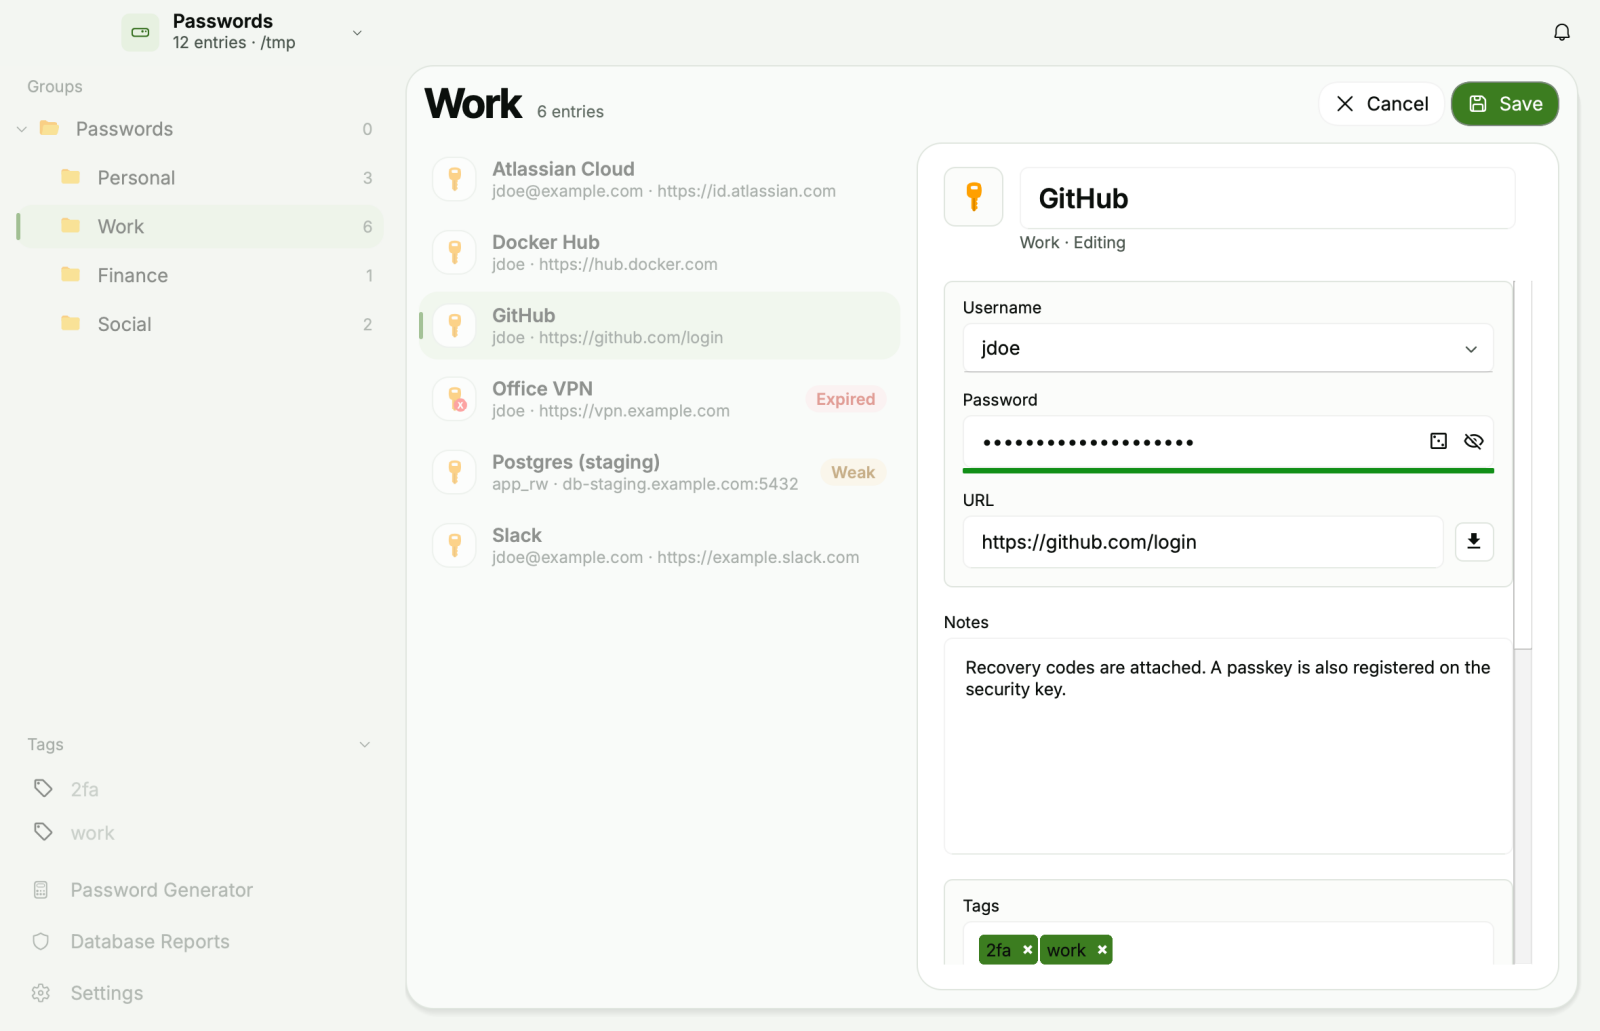
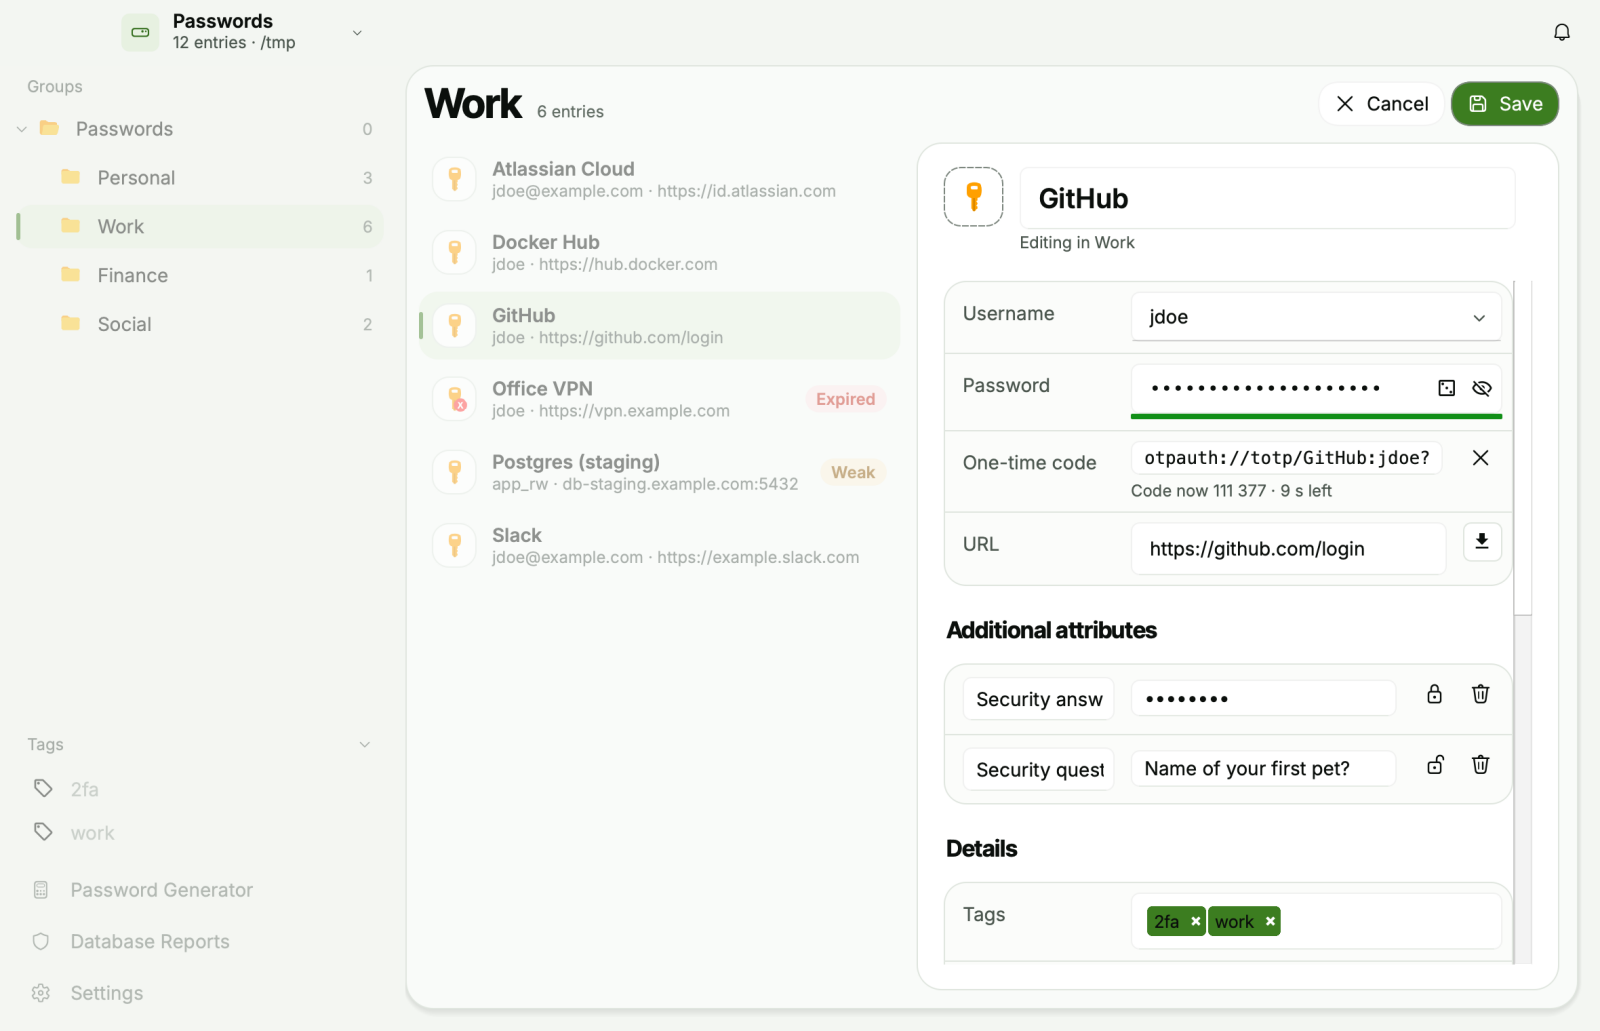
Download OpenVireo 1.1.0 and regenerate the guides from its tag

diff --git a/content/docs/user-guide/database-operations.html b/content/docs/user-guide/database-operations.html
@@ -187,14 +187,17 @@ By default, OpenVireo will show entries that are expired or will be expiring wit
 <div class="olist arabic">
 <ol class="arabic">
 <li>
-<p>Click <em>New Entry</em> in the command bar, navigate to Entries &gt; New Entry, or press <span class="keyseq"><kbd>Ctrl</kbd>+<kbd>N</kbd></span>. The entry opens in a window over the database:</p>
+<p>Click <em>New Entry</em> in the command bar, navigate to Entries &gt; New Entry, or press <span class="keyseq"><kbd>Ctrl</kbd>+<kbd>N</kbd></span>. The new entry opens in place of the entry details, so the groups and the entry list stay in view:</p>
 <figure class="guide-figure" data-lightbox>
 <a href="/docs/user-guide/images/edit_entry.png" data-caption="Adding a new entry"><img src="/docs/user-guide/images/edit_entry.png" alt="edit entry" width="1600" height="1031" loading="lazy"></a>
 <figcaption>Adding a new entry</figcaption>
 </figure>
 </li>
 <li>
-<p>Enter a desired title for the entry, username, password, URL, and notes on this screen.</p>
+<p><em>(Optional)</em> Pick what kind of entry it is: <em>Login</em>, <em>Secure note</em>, <em>Card</em>, <em>Wi-Fi</em>, <em>SSH key</em> or <em>API key</em>. The type only decides which fields the entry starts with. A card, for example, starts with Cardholder, Number, Expires and Security code attributes and no username or password. The entry stays an ordinary KeePass entry, and you can add or remove any field later.</p>
+</li>
+<li>
+<p>Enter a title, username, password and URL. Each field has its name on the left, and the name moves above the field when the window is narrow.</p>
 <div class="olist loweralpha">
 <ol class="loweralpha">
 <li>
@@ -204,7 +207,7 @@ By default, OpenVireo will show entries that are expired or will be expiring wit
 <p>You can generate a secure random password by clicking the dice icon in the password field to launch the password generator. Reveal the password by clicking the eye icon.</p>
 </li>
 <li>
-<p>After you add a URL to an entry you can press the download button to automatically download the website&#8217;s icon for this entry.</p>
+<p>When you type a URL into a new entry, the title follows the site&#8217;s name until you type a title of your own. After you add a URL you can press the download button to download the website&#8217;s icon for this entry.</p>
 </li>
 </ol>
 </div>
@@ -213,12 +216,34 @@ By default, OpenVireo will show entries that are expired or will be expiring wit
 <p><em>(Optional)</em> Add tags to the entry to quickly find it using the tags in the sidebar. You can easily add new tags or select existing ones from the drop-down list.</p>
 </li>
 <li>
-<p><em>(Optional)</em> Select the <em>Expires</em> check-box to set the expiry date for the password. You can manually enter the date and time or click the <em>Presets</em> button to select an expiry date and time for your password.</p>
+<p><em>(Optional)</em> Choose when the entry expires: <em>Never</em>, <em>In 3 months</em>, <em>In 1 year</em>, or <em>Pick a date…</em> to enter a date and time of your own.</p>
 </li>
 <li>
-<p>Click <strong>Save</strong> to add the entry to your database.</p>
+<p><em>(Optional)</em> Click <em>Add field</em> to add more to the entry:</p>
+<div class="ulist">
+<ul>
+<li>
+<p><em>One-time code</em>: paste the secret or the <code>otpauth://</code> link the website shows when you turn on two-step sign-in. The current code appears under the field, so you can check it before saving. See <a href="#_adding_totp_to_an_entry">Adding TOTP to an Entry</a>.</p>
+</li>
+<li>
+<p><em>Another URL</em>: another address the entry works on, for example a second sign-in page. The browser extension offers the entry on these sites too.</p>
+</li>
+<li>
+<p><em>Text attribute</em> and <em>Hidden attribute</em>: a field of your own, such as an account number or a PIN. Type its name in place of the caption. The lock button hides a value and stores it protected; a hidden attribute starts out that way.</p>
+</li>
+<li>
+<p><em>Attachment…</em>: attach a file.</p>
+</li>
+</ul>
+</div>
+</li>
+<li>
+<p>Click <strong>Save</strong> in the command bar to add the entry to your database, or <strong>Cancel</strong> to set it aside.</p>
 </li>
 </ol>
+</div>
+<div class="paragraph">
+<p>Auto-Type, browser integration, the SSH agent, colours, the entry&#8217;s properties and its history are under <em>More options</em> at the bottom of the entry. Each opens in place of the entry; the back button returns to it.</p>
 </div>
 </div>
 <div class="sect3">
@@ -232,10 +257,10 @@ By default, OpenVireo will show entries that are expired or will be expiring wit
 <p>Select the entry you want to edit.</p>
 </li>
 <li>
-<p>Press <kbd>Enter</kbd>, click the <em>Edit Entry</em> (pencil) button in the command bar, or right-click and select Edit Entry from the menu. The entry details become editable in place.</p>
+<p>Press <kbd>Enter</kbd>, click the <em>Edit Entry</em> (pencil) button in the command bar, or right-click and select Edit Entry from the menu. The entry details become editable in place, in the same groups as the details: sign-in, additional attributes, details and notes.</p>
 </li>
 <li>
-<p>Make the desired changes.</p>
+<p>Make the desired changes. The remove button beside a one-time code, an extra URL, an attribute or an attachment takes it off the entry.</p>
 </li>
 <li>
 <p>Click <strong>Save</strong> in the command bar, or <strong>Cancel</strong> to discard the changes.</p>
@@ -270,7 +295,10 @@ Storing TOTP codes in the same database as the password will eliminate the advan
 <figcaption>Example TOTP Secret</figcaption>
 </figure>
 <div class="paragraph">
-<p>Once obtained, right-click the desired entry <strong>(1)</strong>, choose <em>TOTP</em> &#8594; <em>Set up TOTP&#8230;&#8203;</em> <strong>(2)</strong>, and the setup dialog will appear. In that dialog, paste the secret code from the website <strong>(3)</strong>, setup any custom settings (rare) <strong>(4)</strong>, then press OK to save the settings.</p>
+<p>Once obtained, edit the entry, click <em>Add field</em>, choose <em>One-time code</em>, and paste the secret. OpenVireo stores it as an <code>otpauth://</code> link and shows the current code under the field.</p>
+</div>
+<div class="paragraph">
+<p>You can also right-click the desired entry <strong>(1)</strong>, choose <em>TOTP</em> &#8594; <em>Set up TOTP&#8230;&#8203;</em> <strong>(2)</strong>, and the setup dialog will appear. In that dialog, paste the secret code from the website <strong>(3)</strong>, setup any custom settings (rare) <strong>(4)</strong>, then press OK to save the settings.</p>
 </div>
 <figure class="guide-figure" data-lightbox>
 <a href="/docs/user-guide/images/totp_setup.png" data-caption="TOTP Setup Process"><img src="/docs/user-guide/images/totp_setup.png" alt="totp setup" width="824" height="645" loading="lazy"></a>
@@ -430,7 +458,10 @@ You can disable the recycle bin within the Database Settings. If the recycle bin
 <p>A lot of applications and web sites now require providing additional information when you create accounts. The additional information is used to block hackers if any suspicious activity is detected. In addition, the additional information you provide can be used to reset passwords if you forget them. You can also store arbitrary information here that can be copied to the clipboard or Auto-Typed using the <code>{S:&lt;ATTR_NAME&gt;}</code> action code.</p>
 </div>
 <div class="paragraph">
-<p>To protect an attribute from being displayed by default, activate the <em>Protect</em> checkbox <strong>(A)</strong>. To show the contents of the attribute while keeping it protected, press the <em>Reveal</em> button <strong>(B)</strong>.</p>
+<p>Attributes show on the entry itself while you edit it, under <em>Additional attributes</em>, one row each: edit the name in place of the caption and the value beside it, and use the lock button to hide a value and store it protected. Add one with <em>Add field</em> &gt; <em>Text attribute</em> or <em>Hidden attribute</em>.</p>
+</div>
+<div class="paragraph">
+<p>The <em>Advanced</em> page under <em>More options</em> lists every attribute too. To protect an attribute from being displayed by default, activate the <em>Protect</em> checkbox <strong>(A)</strong>. To show the contents of the attribute while keeping it protected, press the <em>Reveal</em> button <strong>(B)</strong>.</p>
 </div>
 <figure class="guide-figure" data-lightbox>
 <a href="/docs/user-guide/images/edit_entry_attributes.png" data-caption="Additional attributes example"><img src="/docs/user-guide/images/edit_entry_attributes.png" alt="edit entry attributes" width="1600" height="1031" loading="lazy"></a>
@@ -440,7 +471,7 @@ You can disable the recycle bin within the Database Settings. If the recycle bin
 <div class="sect3">
 <h4 id="_attachments"><a class="anchor" href="#_attachments"></a>Attachments</h4>
 <div class="paragraph">
-<p>You can attach files to any entry in your database by pressing the <em>Add</em> button <strong>(A)</strong>. These files are added to the database and stored as encrypted binaries. You can open, save, or delete attachments from this interface <strong>(B)</strong>.</p>
+<p>You can attach files to any entry in your database with <em>Add field</em> &gt; <em>Attachment…</em> while editing it; attachments are listed under <em>Details</em>, each with a button to remove it. To open or save one, use the <em>Advanced</em> page under <em>More options</em>, where the <em>Add</em> button <strong>(A)</strong> attaches files too. These files are added to the database and stored as encrypted binaries. You can open, save, or delete attachments from this interface <strong>(B)</strong>.</p>
 </div>
 <aside class="callout callout-note">
 <i class="fa-solid fa-circle-info callout-icon" aria-hidden="true"></i>

diff --git a/content/docs/getting-started/database-operations.html b/content/docs/getting-started/database-operations.html
@@ -170,14 +170,17 @@ On Windows, you will be prompted to authenticate to Windows Hello after unlockin
 <div class="olist arabic">
 <ol class="arabic">
 <li>
-<p>Click <em>New Entry</em> in the command bar, navigate to Entries &gt; New Entry, or press <span class="keyseq"><kbd>Ctrl</kbd>+<kbd>N</kbd></span>. The entry opens in a window over the database:</p>
+<p>Click <em>New Entry</em> in the command bar, navigate to Entries &gt; New Entry, or press <span class="keyseq"><kbd>Ctrl</kbd>+<kbd>N</kbd></span>. The new entry opens in place of the entry details, so the groups and the entry list stay in view:</p>
 <figure class="guide-figure" data-lightbox>
 <a href="/docs/getting-started/images/edit_entry.png" data-caption="Adding a new entry"><img src="/docs/getting-started/images/edit_entry.png" alt="edit entry" width="1600" height="1031" loading="lazy"></a>
 <figcaption>Adding a new entry</figcaption>
 </figure>
 </li>
 <li>
-<p>Enter a desired title for the entry, username, password, URL, and notes on this screen.</p>
+<p><em>(Optional)</em> Pick what kind of entry it is: <em>Login</em>, <em>Secure note</em>, <em>Card</em>, <em>Wi-Fi</em>, <em>SSH key</em> or <em>API key</em>. The type only decides which fields the entry starts with. A card, for example, starts with Cardholder, Number, Expires and Security code attributes and no username or password. The entry stays an ordinary KeePass entry, and you can add or remove any field later.</p>
+</li>
+<li>
+<p>Enter a title, username, password and URL. Each field has its name on the left, and the name moves above the field when the window is narrow.</p>
 <div class="olist loweralpha">
 <ol class="loweralpha">
 <li>
@@ -187,7 +190,7 @@ On Windows, you will be prompted to authenticate to Windows Hello after unlockin
 <p>You can generate a secure random password by clicking the dice icon in the password field to launch the password generator. Reveal the password by clicking the eye icon.</p>
 </li>
 <li>
-<p>After you add a URL to an entry you can press the download button to automatically download the website&#8217;s icon for this entry.</p>
+<p>When you type a URL into a new entry, the title follows the site&#8217;s name until you type a title of your own. After you add a URL you can press the download button to download the website&#8217;s icon for this entry.</p>
 </li>
 </ol>
 </div>
@@ -196,12 +199,34 @@ On Windows, you will be prompted to authenticate to Windows Hello after unlockin
 <p><em>(Optional)</em> Add tags to the entry to quickly find it using the tags in the sidebar. You can easily add new tags or select existing ones from the drop-down list.</p>
 </li>
 <li>
-<p><em>(Optional)</em> Select the <em>Expires</em> check-box to set the expiry date for the password. You can manually enter the date and time or click the <em>Presets</em> button to select an expiry date and time for your password.</p>
+<p><em>(Optional)</em> Choose when the entry expires: <em>Never</em>, <em>In 3 months</em>, <em>In 1 year</em>, or <em>Pick a date…</em> to enter a date and time of your own.</p>
 </li>
 <li>
-<p>Click <strong>Save</strong> to add the entry to your database.</p>
+<p><em>(Optional)</em> Click <em>Add field</em> to add more to the entry:</p>
+<div class="ulist">
+<ul>
+<li>
+<p><em>One-time code</em>: paste the secret or the <code>otpauth://</code> link the website shows when you turn on two-step sign-in. The current code appears under the field, so you can check it before saving. See <a href="#_adding_totp_to_an_entry">Adding TOTP to an Entry</a>.</p>
+</li>
+<li>
+<p><em>Another URL</em>: another address the entry works on, for example a second sign-in page. The browser extension offers the entry on these sites too.</p>
+</li>
+<li>
+<p><em>Text attribute</em> and <em>Hidden attribute</em>: a field of your own, such as an account number or a PIN. Type its name in place of the caption. The lock button hides a value and stores it protected; a hidden attribute starts out that way.</p>
+</li>
+<li>
+<p><em>Attachment…</em>: attach a file.</p>
+</li>
+</ul>
+</div>
+</li>
+<li>
+<p>Click <strong>Save</strong> in the command bar to add the entry to your database, or <strong>Cancel</strong> to set it aside.</p>
 </li>
 </ol>
+</div>
+<div class="paragraph">
+<p>Auto-Type, browser integration, the SSH agent, colours, the entry&#8217;s properties and its history are under <em>More options</em> at the bottom of the entry. Each opens in place of the entry; the back button returns to it.</p>
 </div>
 </div>
 <div class="sect3">
@@ -215,10 +240,10 @@ On Windows, you will be prompted to authenticate to Windows Hello after unlockin
 <p>Select the entry you want to edit.</p>
 </li>
 <li>
-<p>Press <kbd>Enter</kbd>, click the <em>Edit Entry</em> (pencil) button in the command bar, or right-click and select Edit Entry from the menu. The entry details become editable in place.</p>
+<p>Press <kbd>Enter</kbd>, click the <em>Edit Entry</em> (pencil) button in the command bar, or right-click and select Edit Entry from the menu. The entry details become editable in place, in the same groups as the details: sign-in, additional attributes, details and notes.</p>
 </li>
 <li>
-<p>Make the desired changes.</p>
+<p>Make the desired changes. The remove button beside a one-time code, an extra URL, an attribute or an attachment takes it off the entry.</p>
 </li>
 <li>
 <p>Click <strong>Save</strong> in the command bar, or <strong>Cancel</strong> to discard the changes.</p>
@@ -253,7 +278,10 @@ Storing TOTP codes in the same database as the password will eliminate the advan
 <figcaption>Example TOTP Secret</figcaption>
 </figure>
 <div class="paragraph">
-<p>Once obtained, right-click the desired entry <strong>(1)</strong>, choose <em>TOTP</em> &#8594; <em>Set up TOTP&#8230;&#8203;</em> <strong>(2)</strong>, and the setup dialog will appear. In that dialog, paste the secret code from the website <strong>(3)</strong>, setup any custom settings (rare) <strong>(4)</strong>, then press OK to save the settings.</p>
+<p>Once obtained, edit the entry, click <em>Add field</em>, choose <em>One-time code</em>, and paste the secret. OpenVireo stores it as an <code>otpauth://</code> link and shows the current code under the field.</p>
+</div>
+<div class="paragraph">
+<p>You can also right-click the desired entry <strong>(1)</strong>, choose <em>TOTP</em> &#8594; <em>Set up TOTP&#8230;&#8203;</em> <strong>(2)</strong>, and the setup dialog will appear. In that dialog, paste the secret code from the website <strong>(3)</strong>, setup any custom settings (rare) <strong>(4)</strong>, then press OK to save the settings.</p>
 </div>
 <figure class="guide-figure" data-lightbox>
 <a href="/docs/getting-started/images/totp_setup.png" data-caption="TOTP Setup Process"><img src="/docs/getting-started/images/totp_setup.png" alt="totp setup" width="824" height="645" loading="lazy"></a>

diff --git a/content/docs/getting-started/interface-overview.html b/content/docs/getting-started/interface-overview.html
@@ -46,6 +46,9 @@ sections:
 <div class="paragraph">
 <p>When a database syncs with a sync server or belongs to an OpenVireo account, a sync status chip at the far right of the header shows whether it is synced, syncing, offline, or needs your attention; click it to sync again or to act on the problem. In account mode an account button next to it shows who is signed in and opens the account menu.</p>
 </div>
+<div class="paragraph">
+<p>The layout adapts to the window&#8217;s width, like the web app. Below 1100 pixels the sidebar folds away: click the group name above the entries (or the arrow beside it) to drop the groups down over the list, and pick a group or press <kbd>Esc</kbd> to close them. Below 760 pixels the entries and the entry details take turns: click an entry to open its details and the back button to return to the list, and the search box moves to its own row. The window can be made as narrow as 400 pixels.</p>
+</div>
 <aside class="callout callout-tip">
 <i class="fa-solid fa-lightbulb callout-icon" aria-hidden="true"></i>
 <div class="callout-body">

diff --git a/content/docs/user-guide/interface-overview.html b/content/docs/user-guide/interface-overview.html
@@ -52,6 +52,9 @@ sections:
 <div class="paragraph">
 <p>When a database syncs with a sync server or belongs to an OpenVireo account, a sync status chip at the far right of the header shows whether it is synced, syncing, offline, or needs your attention; click it to sync again or to act on the problem. In account mode an account button next to it shows who is signed in and opens the account menu.</p>
 </div>
+<div class="paragraph">
+<p>The layout adapts to the window&#8217;s width, like the web app. Below 1100 pixels the sidebar folds away: click the group name above the entries (or the arrow beside it) to drop the groups down over the list, and pick a group or press <kbd>Esc</kbd> to close them. Below 760 pixels the entries and the entry details take turns: click an entry to open its details and the back button to return to the list, and the search box moves to its own row. The window can be made as narrow as 400 pixels.</p>
+</div>
 <aside class="callout callout-tip">
 <i class="fa-solid fa-lightbulb callout-icon" aria-hidden="true"></i>
 <div class="callout-body">

diff --git a/content/docs/getting-started/_index.html b/content/docs/getting-started/_index.html
@@ -1,9 +1,9 @@
 ---
 title: "Getting Started"
 description: "Download OpenVireo, create your first database, and connect your browser in a few easy steps."
-version: "1.0.0"
-updated: "2026-11-23"
-origin: "develop@66a80101"
+version: "1.1.0"
+updated: "2026-11-24"
+origin: "1.1.0@c4a0617b"
 related:
   title: "Read the full User Guide"
   url: "/docs/user-guide/"

diff --git a/content/docs/user-guide/_index.html b/content/docs/user-guide/_index.html
@@ -1,9 +1,9 @@
 ---
 title: "User Guide"
 description: "Everything OpenVireo can do, explained chapter by chapter."
-version: "1.0.0"
-updated: "2026-11-23"
-origin: "develop@66a80101"
+version: "1.1.0"
+updated: "2026-11-24"
+origin: "1.1.0@c4a0617b"
 related:
   title: "New here? Getting Started"
   url: "/docs/getting-started/"

diff --git a/content/download.html b/content/download.html
@@ -8,7 +8,7 @@ type: download
 # links to (OpenVireo-<version>[suffix]-arm64.dmg, ..., plus the release's SHA256SUMS.txt[.asc]).
 # Left empty, every button points to the releases page. beta: true labels it as a beta (0.x).
 version:
-  version: 1.0.0
+  version: 1.1.0
   beta: false
   suffix:
     macos:
